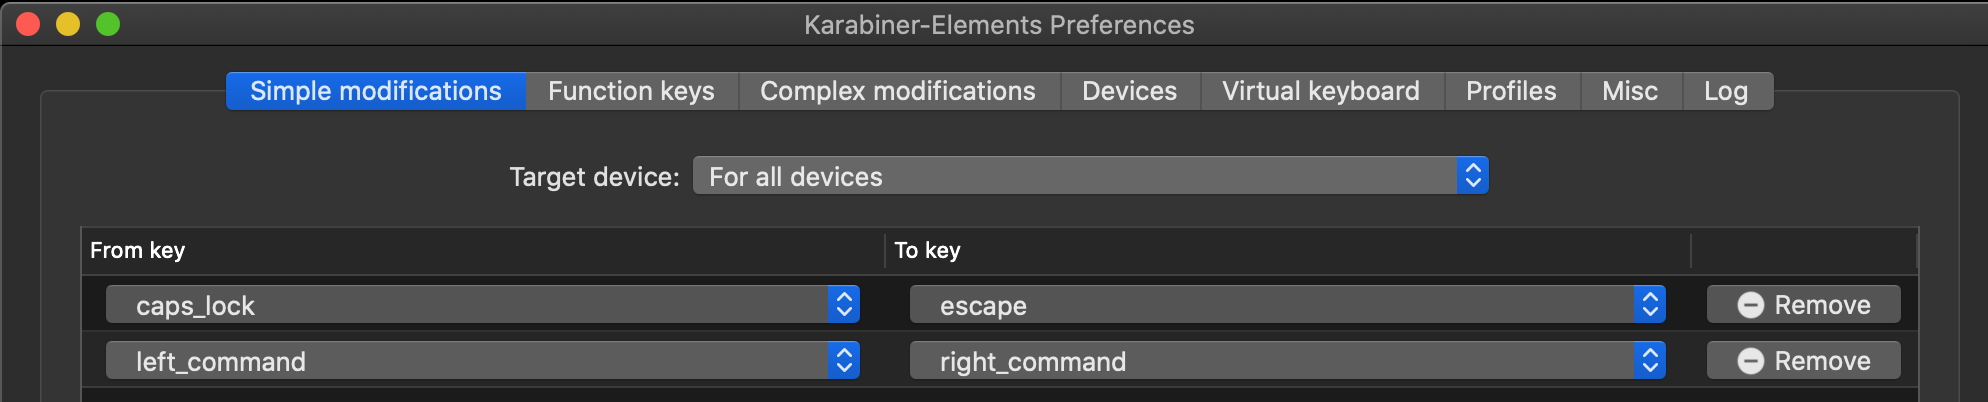
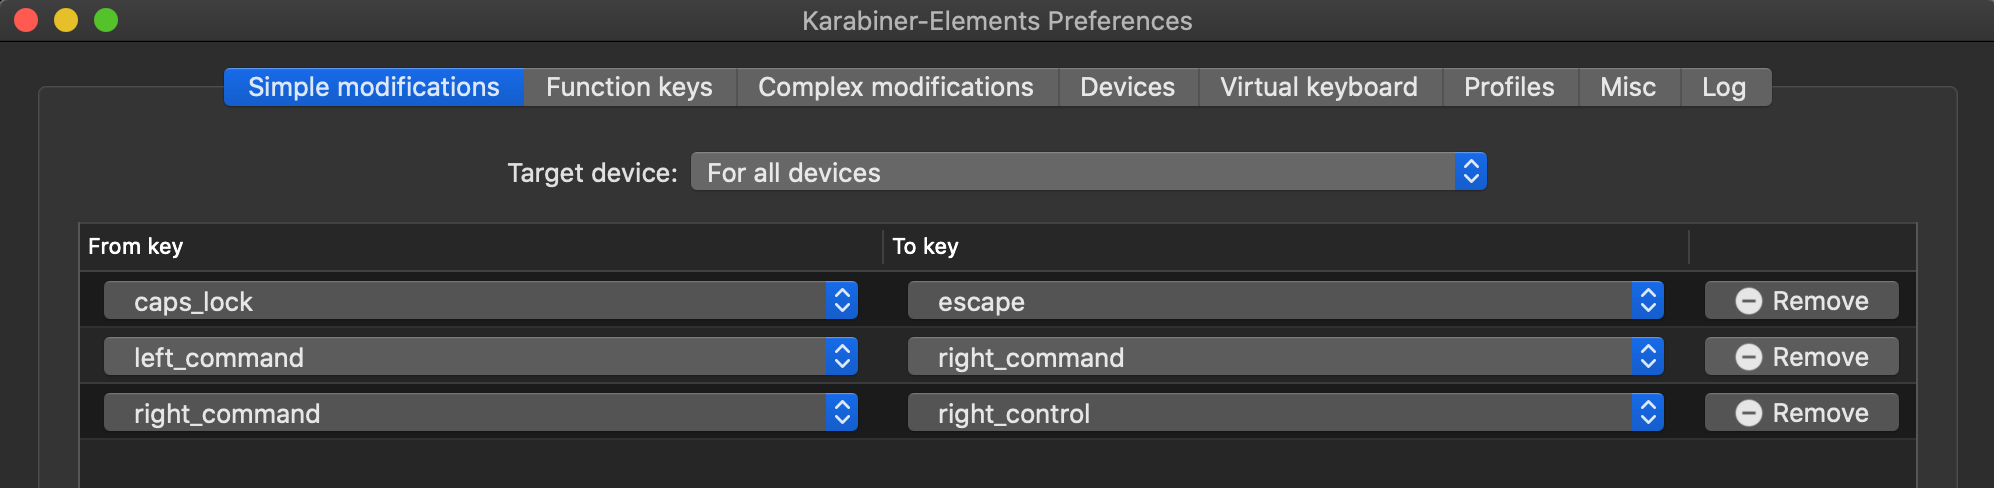
quick deploy

diff --git a/macbook_shortcut_cheatsheet.md b/macbook_shortcut_cheatsheet.md
@@ -1,23 +1,24 @@
 # Mac Setup
 - https://karabiner-elements.pqrs.org
 - Swap Esc with Caps Lock key
-- Swap command_right with command_left
+- Swap left_command with right_command
+- Swap right_command with right_control
 ![client](./swap_keys.png "client")
 
-- Add complex modification rule to hjkl to directional
+## Add complex modification rule to hjkl to directional
 ![client](./hjkl_arrowkeys.png "client")
 ```
 +──────────────────────────────────────+──────────────────────────────────────+
-left_command + h                            | arrow left
-left_command + j                            | arrow down
-left_command + k                            | arrow up
-left_command + l                            | arrow right
+left_command + h                       | arrow left
+left_command + j                       | arrow down
+left_command + k                       | arrow up
+left_command + l                       | arrow right
 +──────────────────────────────────────+──────────────────────────────────────+
 ```
-- Increase key speed
+## Increase key speed
 ![client](./mac_keyboard_speed.png "client")
 
-- Turn off press and hold 
+## Turn off press and hold 
 ```
 defaults write NSGlobalDomain ApplePressAndHoldEnabled -bool false
 ```
@@ -31,8 +32,8 @@ defaults write NSGlobalDomain ApplePressAndHoldEnabled -bool false
 ![client](./mission_control.png "client")
 ```
 +──────────────────────────────────────+──────────────────────────────────────+
-command + u                            | move window left
-command + p                            | move window right
+left_command + u                       | move window left
+left_command + p                       | move window right
 +──────────────────────────────────────+──────────────────────────────────────+
 ```
 ## Windows Manager 
@@ -58,22 +59,28 @@ brew cask install alacritty
 - Tmux + Oh-my-zsh
 ```
 +──────────────────────────────────────+──────────────────────────────────────+
-ctrl + tab                             | toggle terminal
-ctrl + `                               | select tab
-shift + right-arrow                    | move to right tab
-shift + left-arrow                     | move to left tab
-ctrl + b > c                           | create new tab
-ctrl + b > , > enter                   | rename tab
-ctrl + b > x > y > enter               | close window
-ctrl + b > 5                           | split window
+right_command + tab                    | toggle terminal
+left_command + w                       | select tab
+shift + left_command > h               | move to left tmux tab
+shift + left_command > l               | move to right tmux tab
+right_command + a >                    | create new tab
+right_command + a > , > enter          | rename tab
+right_command + a > x > y > enter      | close window
+right_command + a > 5                  | split window
+right_command + a > h                  | move left split window
+right_command + a > l                  | move right split window
+right_command + r > {word}             | reverse search command history 
 +──────────────────────────────────────+──────────────────────────────────────+
 ```
 
 ## Shell Alias
 ```
+vim ~/.zshrc
 alias g="git"
 alias p="python3"
 alias c="git add . && git commit -m 'quick deploy' && git push"
+alias v=". venv/bin/activate"
+source ~/.zshrc
 ```
 
 # Editor VIM+VSCode   
@@ -90,9 +97,9 @@ j                                      | down
 0                                      | move to start of selected line
 $                                      | move to end of selected line
 s > {char} > {char}                    | search for character
-shift+s > {char} > {char} > ;          | search for character next
-shift+s > {char} > {char}              | search backwards
-shift+s > {char} > {char} > ;          | search backwards next
+shift + s > {char} > {char} > ;        | search for character next
+shift + s > {char} > {char}            | search backwards
+shift + s > {char} > {char} > ;        | search backwards next
 f > {char} > ,                         | move back to char
 f > {char} > ;                         | move forward to char
 shift + f > {char} > ;                 | move back to char
@@ -111,7 +118,7 @@ shift + 5                              | move to matching {} or ()
 ```
 +──────────────────────────────────────+──────────────────────────────────────+
 tab                                    | escape to enter NORMAL mode
-cmd > click                            | multi cursor select
+left_command > click                   | multi cursor select
 / > {word} > enter                     | search for word FORWARD 
 ? > {word} > enter                     | search for word BACKWARD 
 / > {word} > enter > n                 | find next
@@ -138,8 +145,8 @@ u                                      | undo
 d > l                                  | delete 1 character right
 d > h                                  | delete 1 character left
 d > a > w                              | delete selected word
-cmd + k                                | move current line up
-cmd + j                                | move current line down
+left_command + k                       | move current line up
+left_command + j                       | move current line down
 y > y                                  | copy line
 p                                      | paste line after cursor
 shift + p                              | paste line before cursor
@@ -169,28 +176,28 @@ v > i > w > y > esc > P                | copy word and paste before cursor
 +──────────────────────────────────────+──────────────────────────────────────+
 space                                  | quick search                   *remap*
 space > delete                         | search file                    *remap*
-cmd + 1                                | find in files                  *remap*
-cmd + 2                                | view explorer                  *remap*
-cmd + 3                                | go to definition of cursor     *remap*
+left_command + 1                       | find in files                  *remap*
+left_command + 2                       | view explorer                  *remap*
+left_command + 3                       | go to definition of cursor     *remap*
 +──────────────────────────────────────+──────────────────────────────────────+
 ```
 
 ## Tab control
 ```
 +──────────────────────────────────────+──────────────────────────────────────+
-cmd + shift + t                        | re-open recently closed tab
-cmd + d                                | close selected tab             *remap*
-cmd + w                                | toggle to other split window   *remap*
-cmd + e                                | toggle right tab               *remap*
-cmd + q                                | toggle left tab                *remap*
+left_command + shift + t               | re-open recently closed tab
+left_command + d                       | close selected tab             *remap*
+left_command + w                       | toggle to other split window   *remap*
+left_command + e                       | toggle right tab               *remap*
+left_command + q                       | toggle left tab                *remap*
 +──────────────────────────────────────+──────────────────────────────────────+
 ```
 
 ## Window Splitting
 ```
 +──────────────────────────────────────+──────────────────────────────────────+
-cmd + m                                | split vertical                 *remap*
-cmd + n                                | split horizontal               *remap*
+left_command + m                       | split vertical                 *remap*
+left_command + n                       | split horizontal               *remap*
 +──────────────────────────────────────+──────────────────────────────────────+
 ```
 
@@ -198,10 +205,10 @@ cmd + n                                | split horizontal               *remap*
 ```
 +──────────────────────────────────────+──────────────────────────────────────+
 ctrl + shift + t                       | re-open recently closed tab
-cmd + e                                | toggle next tab                *remap*
-cmd + q                                | close current tab              *remap*
-cmd + d                                | open new tab                   *remap*
-cmd + l                                | focus to search bar
+left_command + e                       | toggle next tab                *remap*
+left_command + q                       | close current tab              *remap*
+left_command + d                       | open new tab                   *remap*
+left_command + l                       | focus to search bar
 space                                  | scroll down
 shift + space                          | scroll up
 +──────────────────────────────────────+──────────────────────────────────────+

diff --git a/README.md b/README.md
@@ -37,6 +37,7 @@ yarn install
 ```
 - gunicorn main:app --reload
 - pytest -vs -x --testmon --loopfail
+- watch -n 10 pytest -vs -x tests/app_schema/test_export_schema.py
 
 ## Terminal 2 - Client
 ![client](./terminal_server.png "client")
